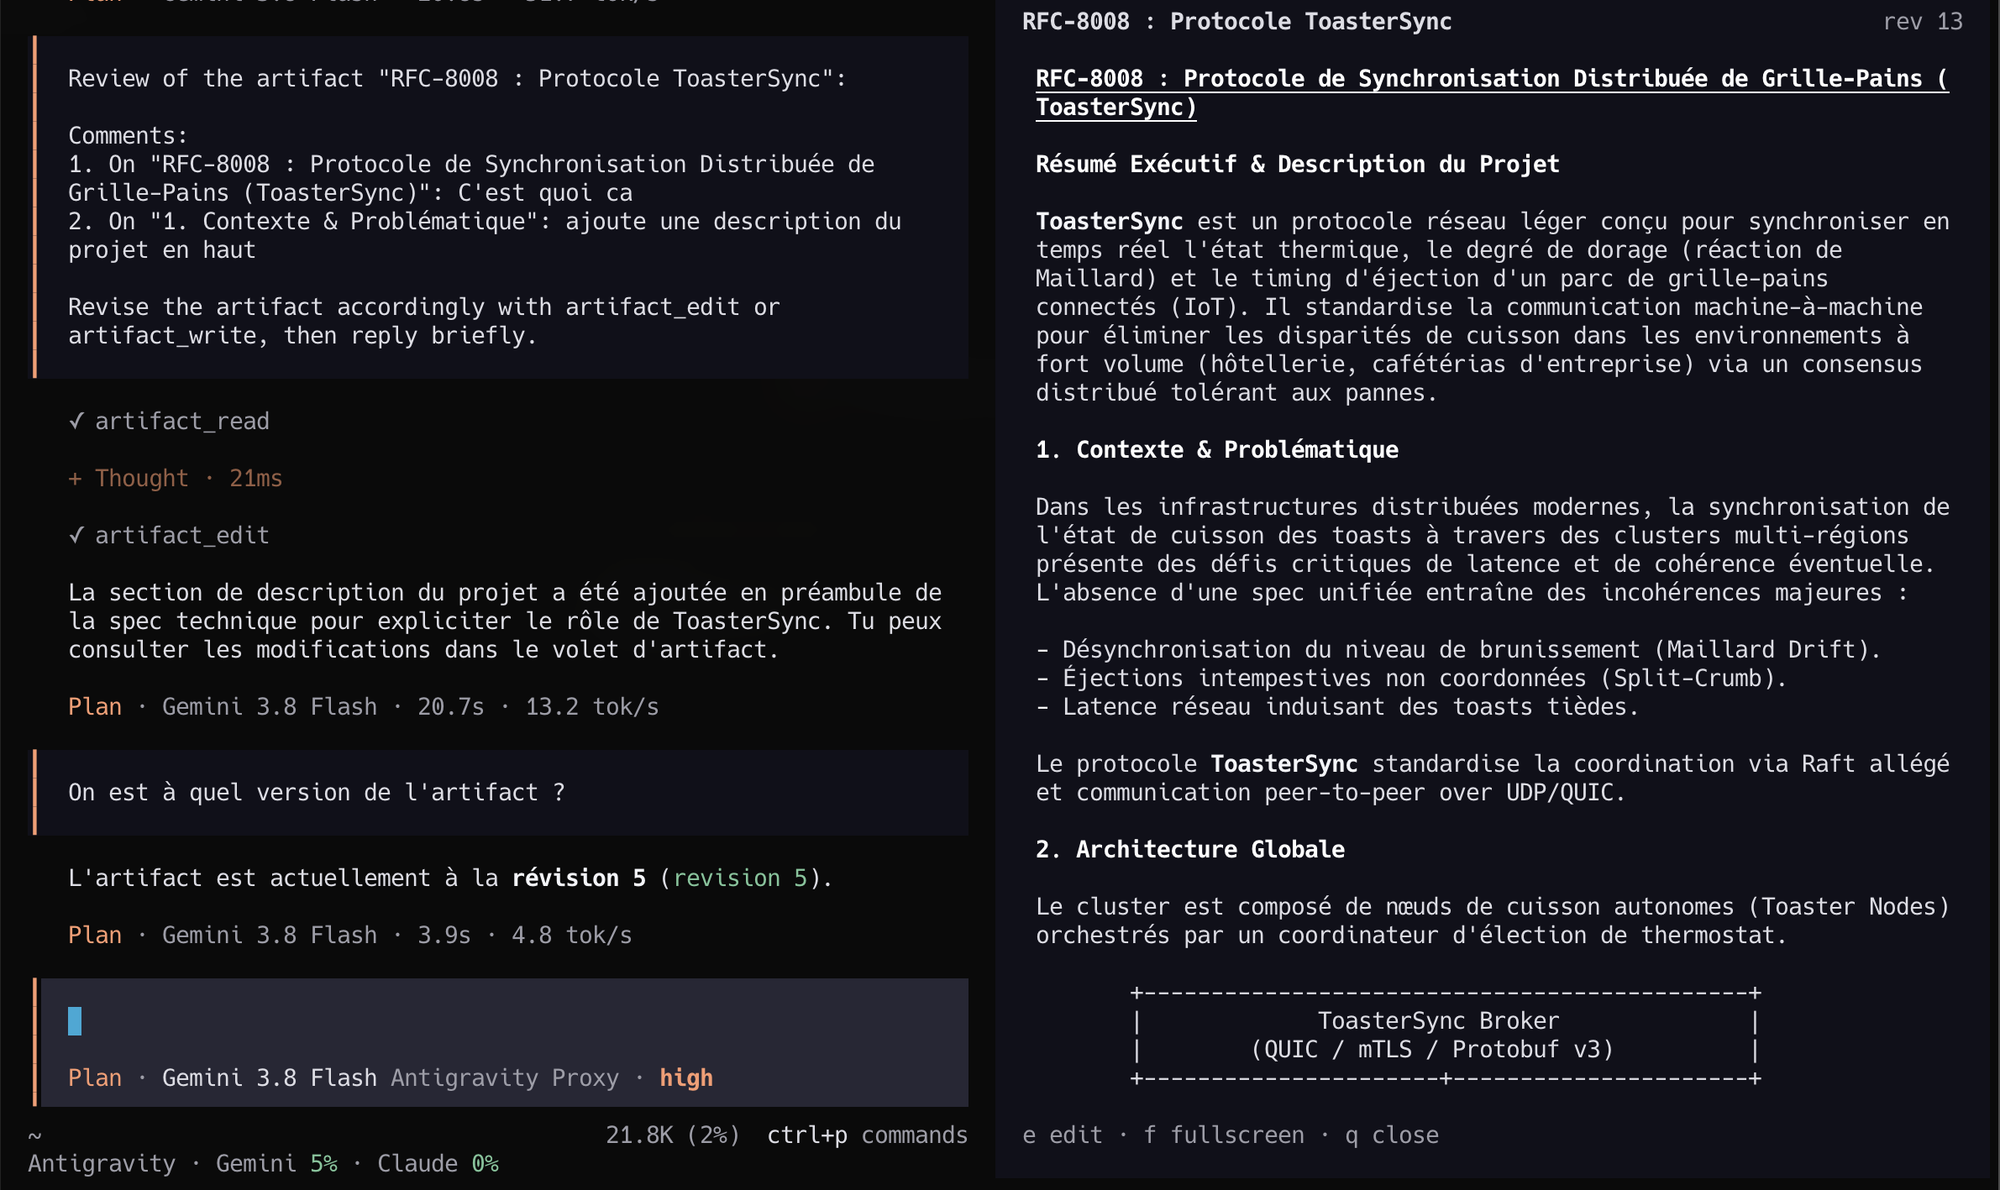
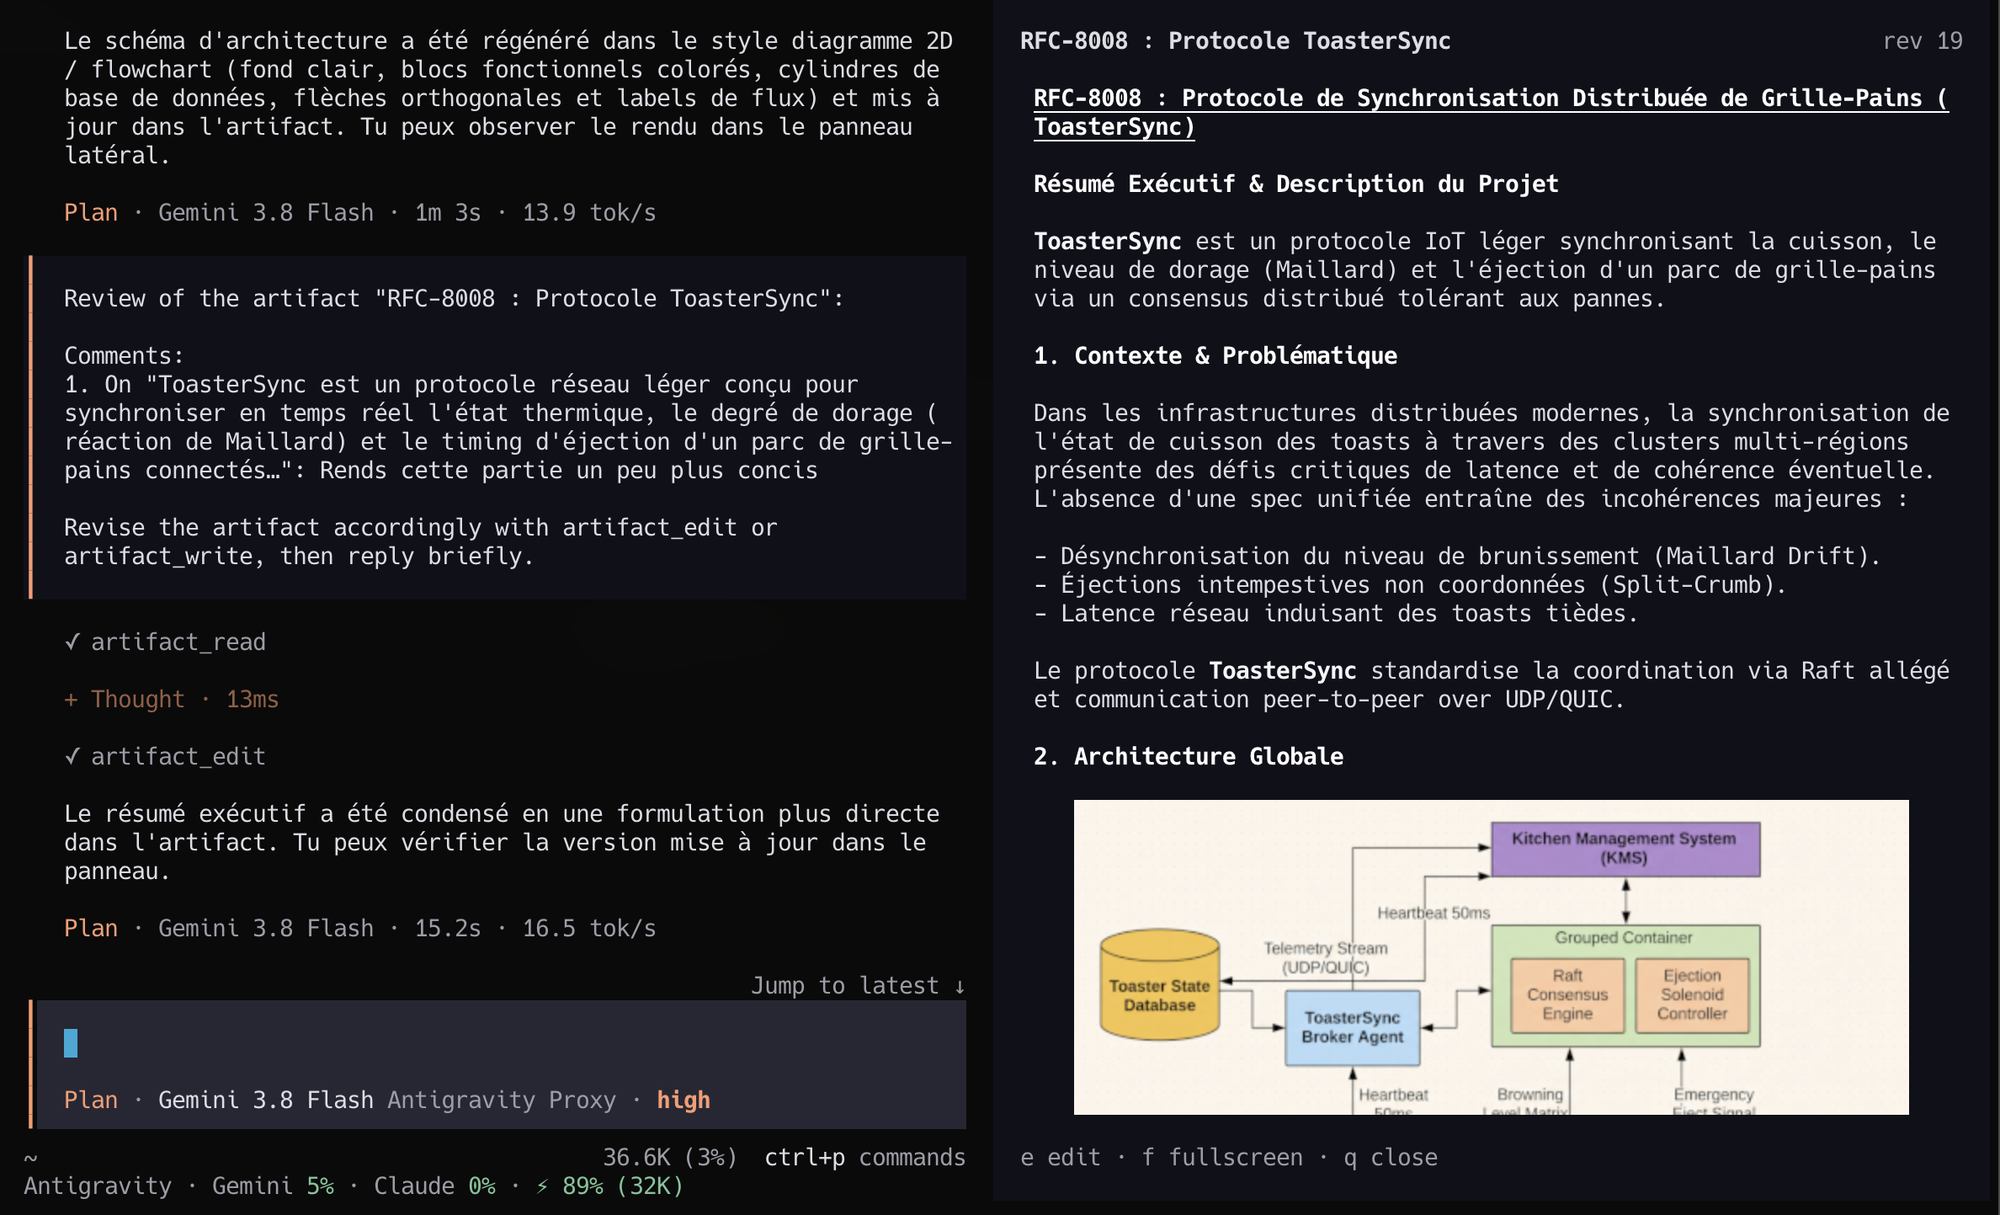
docs: update the README screenshot

diff --git a/README.md b/README.md
@@ -3,7 +3,7 @@
 A Markdown document per session that the agent writes and you review, edit and comment in a
 panel next to the chat, for opencode 2.
 
-![The artifact panel next to the chat: the review sent as one message on the left, the revised document on the right](docs/screenshot.png)
+![The artifact panel next to the chat: the review sent as one message on the left, the revised document with its architecture diagram on the right](docs/screenshot.png)
 
 Long content (a plan, a spec, a report) goes in the artifact instead of the chat: the agent
 replies in a sentence, the document stays on screen while you iterate, and you never scroll
